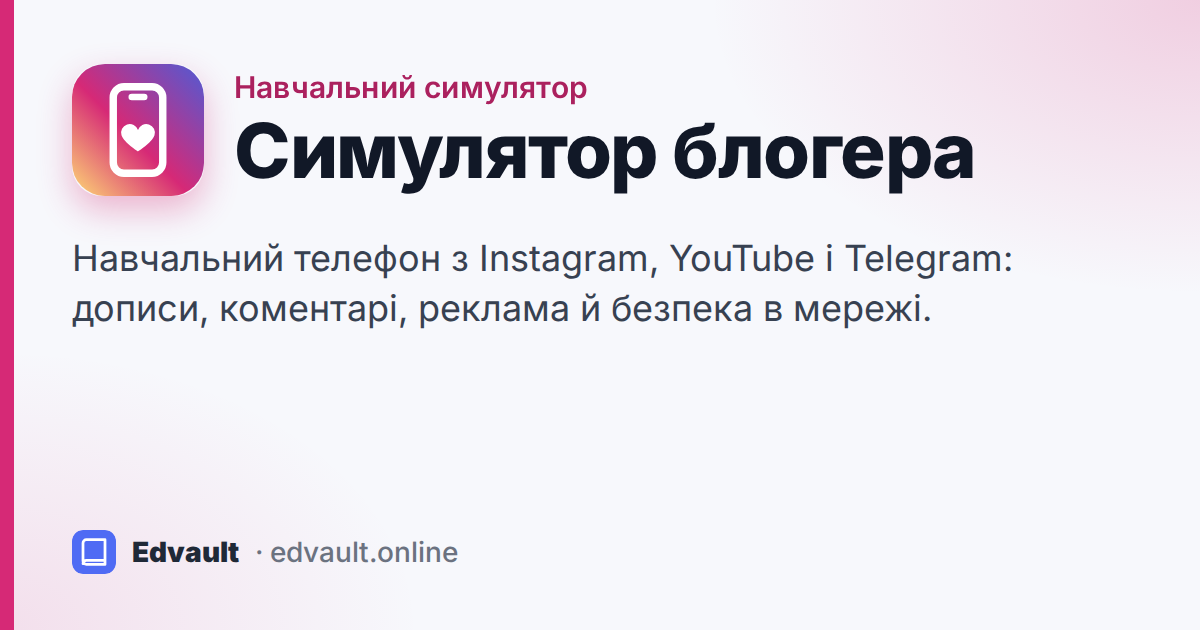
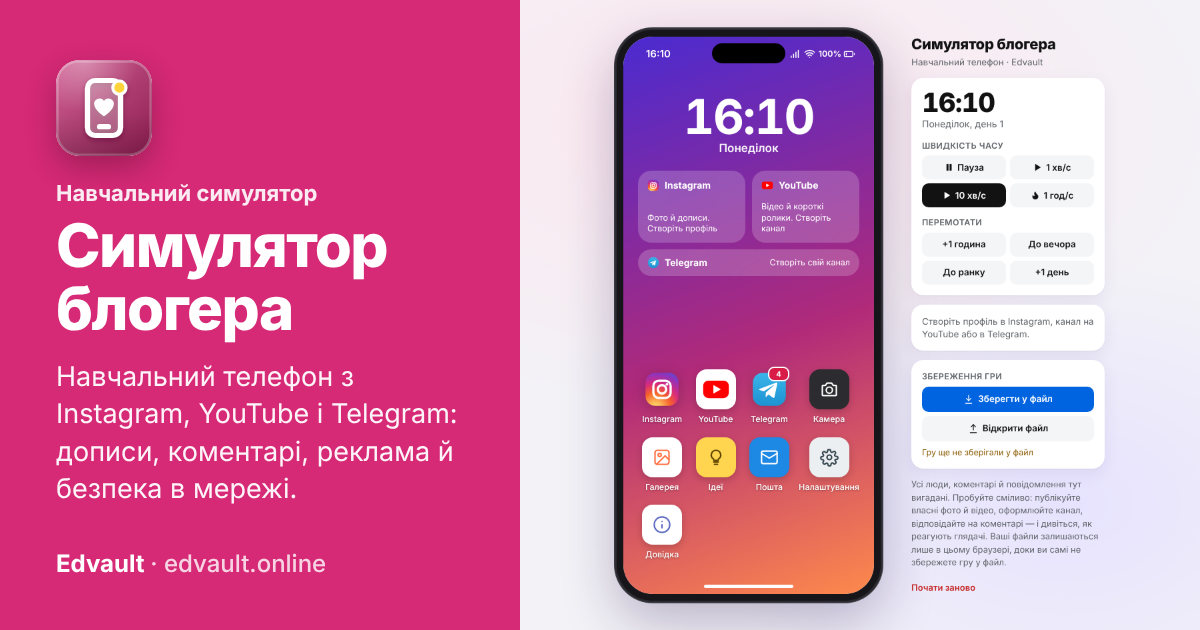
Нові прев'ю посилань у вигляді «два екрани»: знімок інструмента, автопідбір тексту; адреси картинок з ?v=2 щоб месенджери оновили кеш
Claude-Session: https://claude.ai/code/session_01A9JceW55buxDsbUJb8C2n4

diff --git a/catalog.html b/catalog.html
@@ -115,7 +115,7 @@ svg.i{width:18px;height:18px;fill:none;stroke:currentColor;stroke-width:1.8;stro
 <meta property="og:description" content="Безпечні копії справжніх систем: можна пробувати все, нічого не зламається.">
 <meta property="og:url" content="https://emulators.edvault.online/catalog">
 <link rel="canonical" href="https://emulators.edvault.online/catalog">
-<meta property="og:image" content="https://emulators.edvault.online/assets/og/emulators.png">
+<meta property="og:image" content="https://emulators.edvault.online/assets/og/emulators.png?v=2">
 <meta property="og:image:width" content="1200">
 <meta property="og:image:height" content="630">
 <meta property="og:image:alt" content="Каталог емуляторів — Edvault">

diff --git a/startup.html b/startup.html
@@ -35,7 +35,7 @@
 <meta property="og:title" content="Симулятор стартапу · Edvault">
 <meta property="og:description" content="Від ніші до платежів: дев’ять етапів, понад п’ятдесят вправ, власна ідея, логотип, фінплан, торг з інвестором і трейдинг.">
 <meta property="og:url" content="https://startup.edvault.online/">
-<meta property="og:image" content="https://startup.edvault.online/assets/og/startup.png">
+<meta property="og:image" content="https://startup.edvault.online/assets/og/startup.png?v=2">
 <meta property="og:image:width" content="1200">
 <meta property="og:image:height" content="630">
 <meta property="og:image:alt" content="Симулятор стартапу — Edvault">

diff --git a/startup-check.html b/startup-check.html
@@ -15,7 +15,7 @@
 <meta property="og:title" content="Перевірка роботи · Симулятор стартапу">
 <meta property="og:description" content="Сторінка для викладача: відкрийте файл збереження учня й перегляньте всю роботу без права змін.">
 <meta property="og:url" content="https://startup.edvault.online/startup-check">
-<meta property="og:image" content="https://startup.edvault.online/assets/og/startup.png">
+<meta property="og:image" content="https://startup.edvault.online/assets/og/startup-check.png?v=2">
 <meta property="og:image:width" content="1200">
 <meta property="og:image:height" content="630">
 <meta property="og:image:alt" content="Симулятор стартапу — Edvault">

diff --git a/index.html b/index.html
@@ -220,7 +220,7 @@ a { color: inherit; }
 <meta property="og:description" content="Три навчальні емулятори в браузері: Windows, телефон блогера і стартап. Без встановлення і без реєстрації.">
 <meta property="og:url" content="https://emulators.edvault.online/">
 <link rel="canonical" href="https://emulators.edvault.online/">
-<meta property="og:image" content="https://emulators.edvault.online/assets/og/emulators.png">
+<meta property="og:image" content="https://emulators.edvault.online/assets/og/emulators.png?v=2">
 <meta property="og:image:width" content="1200">
 <meta property="og:image:height" content="630">
 <meta property="og:image:alt" content="Навчальні емулятори — Edvault">

diff --git a/windows.html b/windows.html
@@ -15,7 +15,7 @@
 <meta property="og:title" content="Емулятор Windows · Edvault">
 <meta property="og:description" content="Провідник, командний рядок, Диспетчер завдань, брандмауер, мережа й роутер — пробуйте сміливо, нічого не зламаєте.">
 <meta property="og:url" content="https://windows.edvault.online/">
-<meta property="og:image" content="https://windows.edvault.online/assets/og/windows.png">
+<meta property="og:image" content="https://windows.edvault.online/assets/og/windows.png?v=2">
 <meta property="og:image:width" content="1200">
 <meta property="og:image:height" content="630">
 <meta property="og:image:alt" content="Емулятор Windows — Edvault">

diff --git a/blogger.html b/blogger.html
@@ -18,7 +18,7 @@
 <meta property="og:description" content="Навчальний телефон з Instagram, YouTube і Telegram: дописи, коментарі, реклама й безпека в мережі.">
 <meta property="og:url" content="https://emulators.edvault.online/blogger">
 <link rel="canonical" href="https://emulators.edvault.online/blogger">
-<meta property="og:image" content="https://emulators.edvault.online/assets/og/blogger.png">
+<meta property="og:image" content="https://emulators.edvault.online/assets/og/blogger.png?v=2">
 <meta property="og:image:width" content="1200">
 <meta property="og:image:height" content="630">
 <meta property="og:image:alt" content="Симулятор блогера — Edvault">
